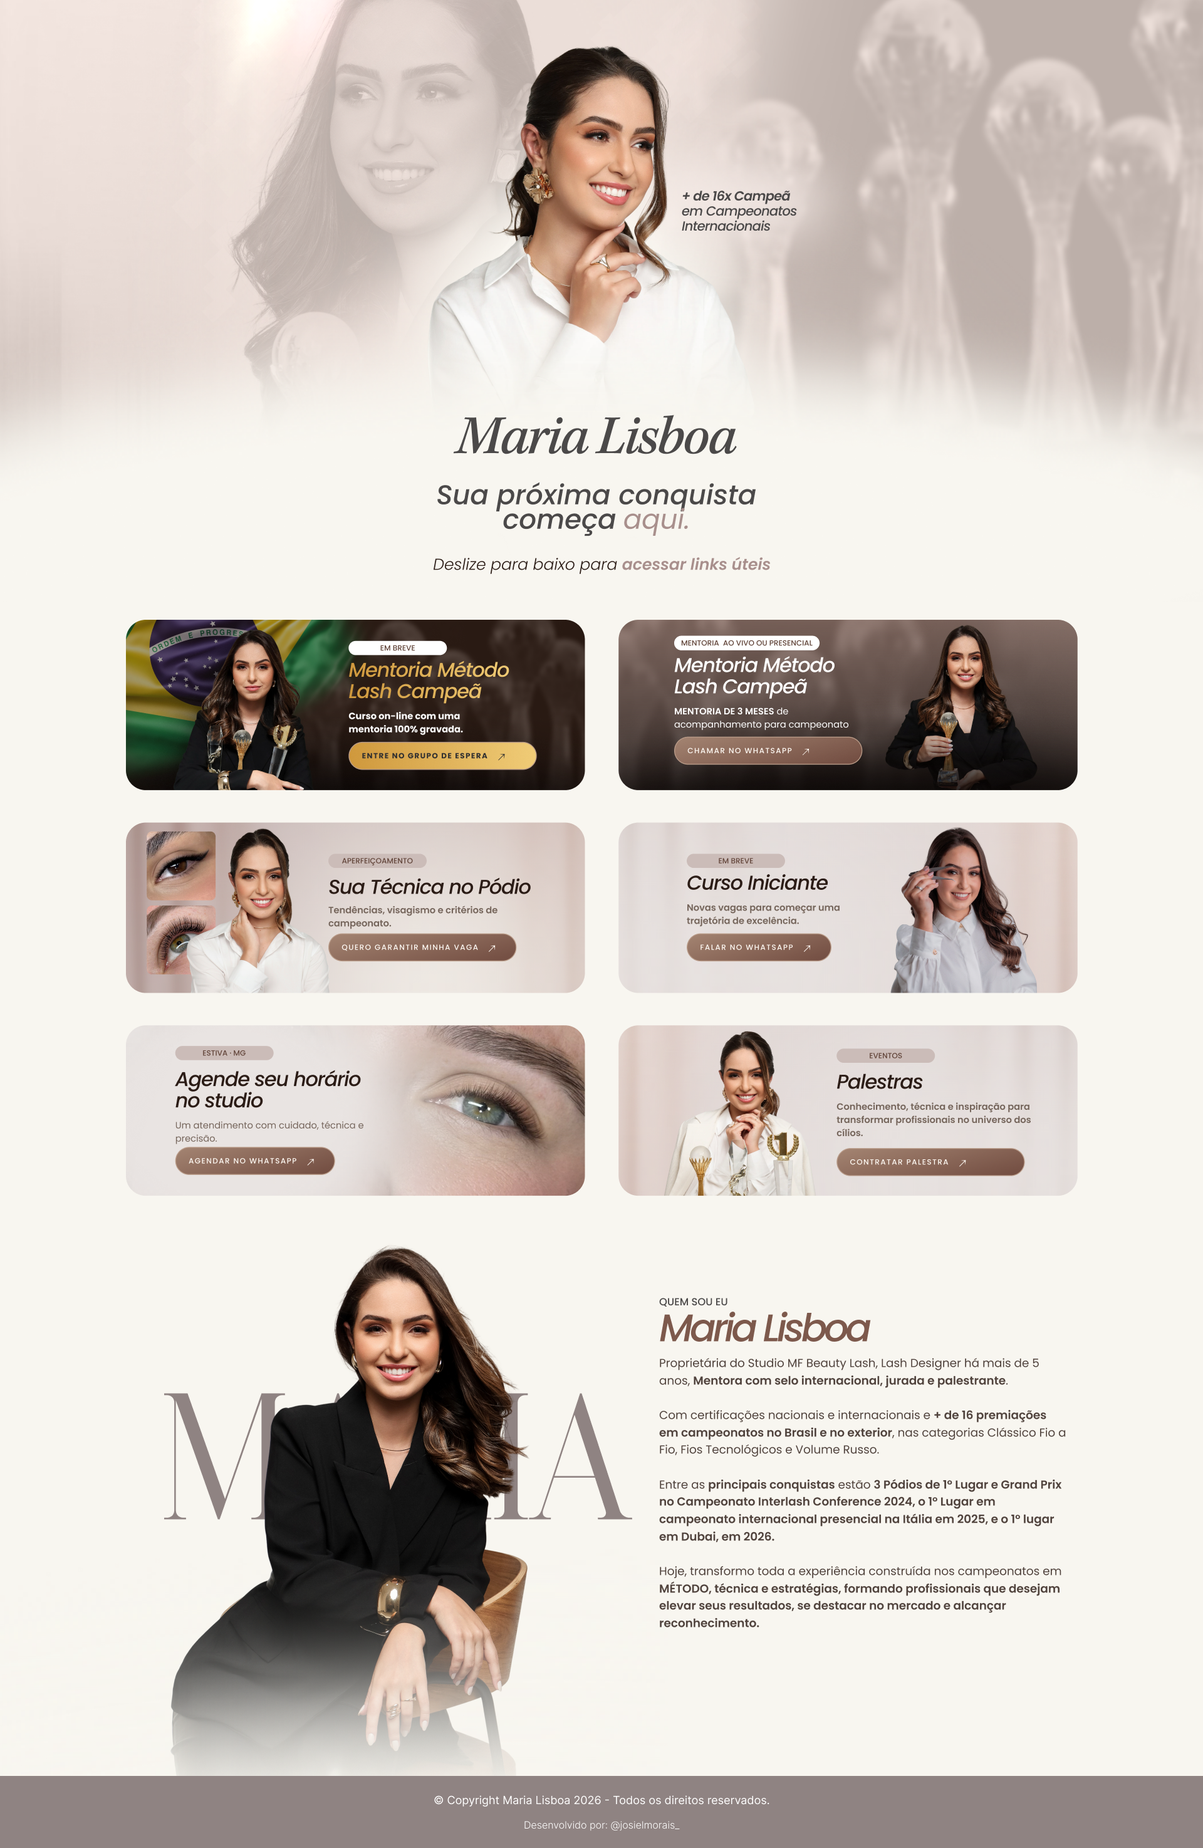
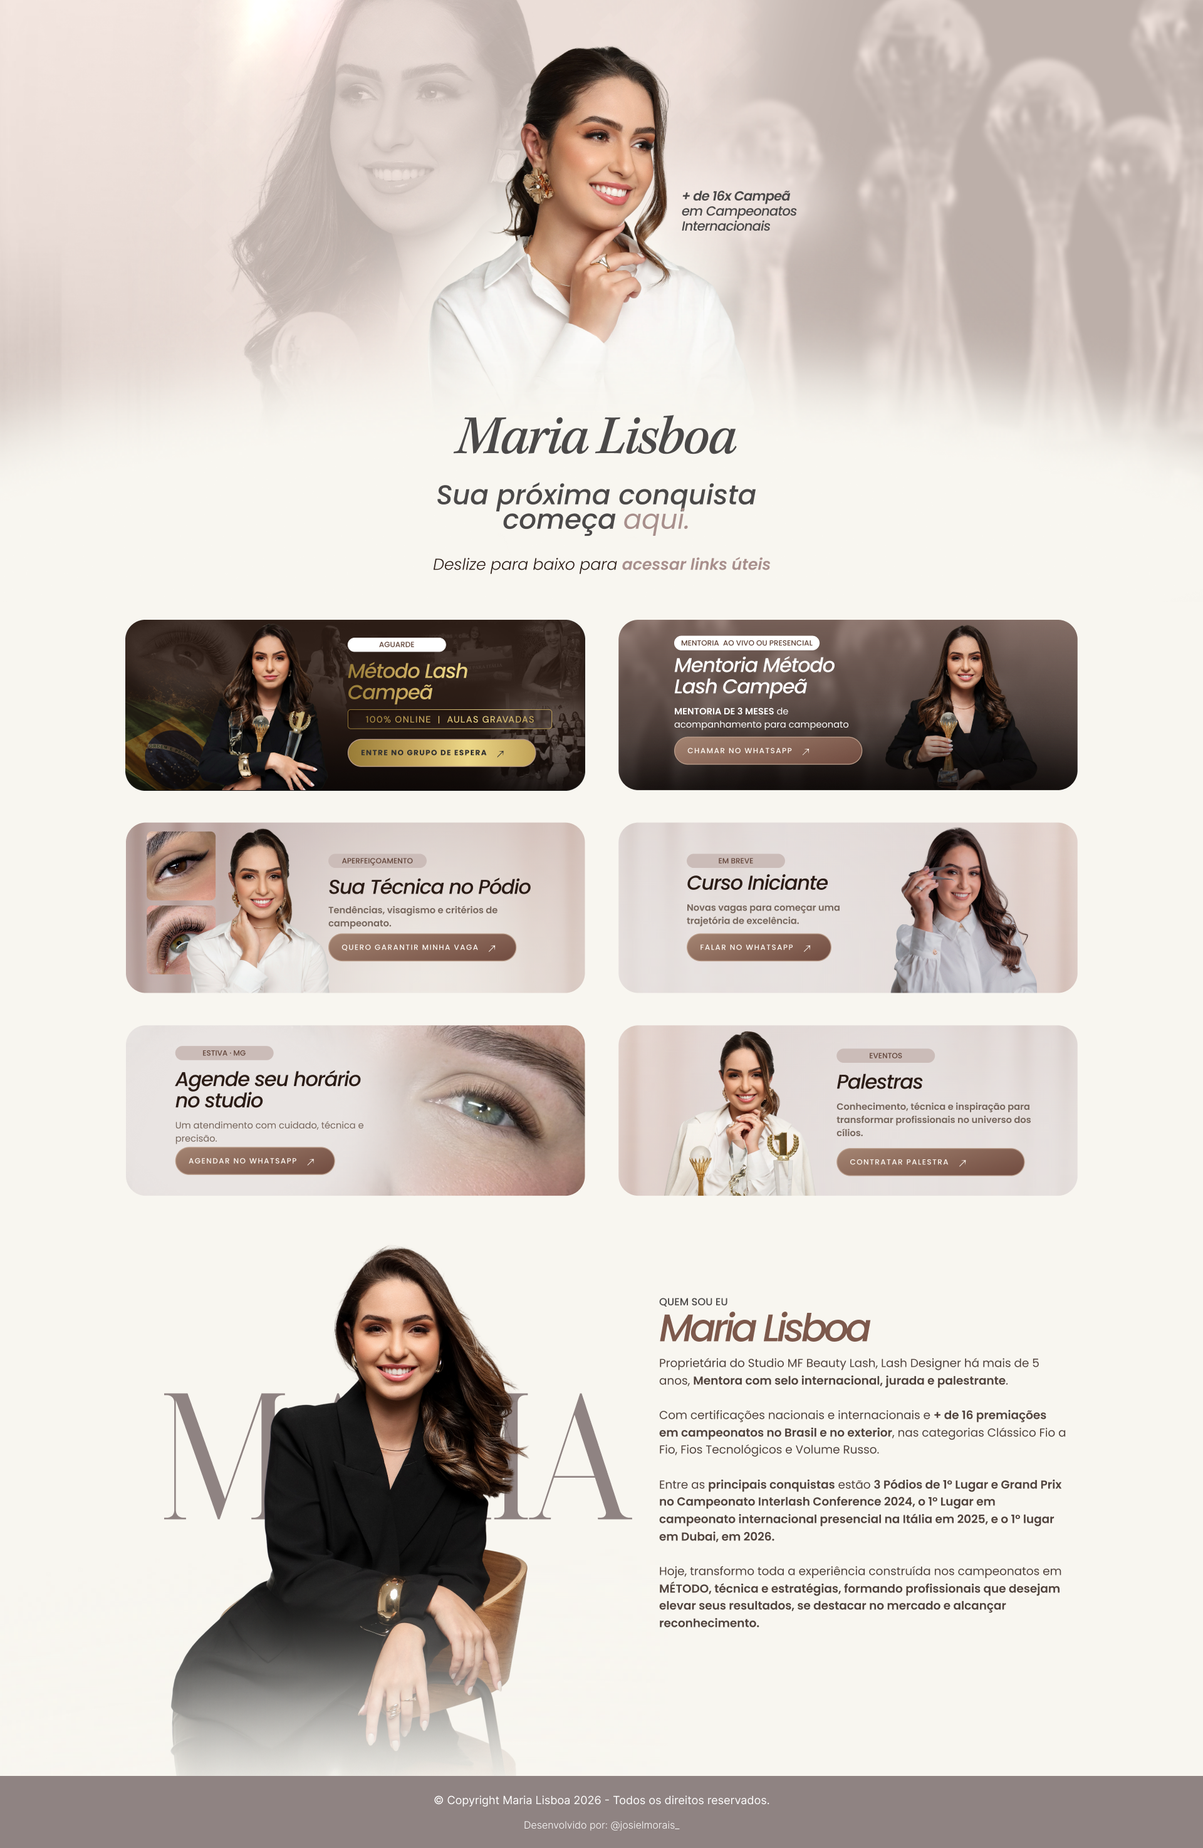
fix: atualizar botão MLC e rodapé da página de links

Changed region(s): [[0.0938, 0.312, 0.5, 0.4368]]

diff --git a/public/link-bio/index.html b/public/link-bio/index.html
@@ -7,7 +7,8 @@
   <meta name="theme-color" content="#f8f6f0" />
   <meta name="description" content="Maria Lisboa, Lash Designer, mentora, jurada e palestrante." />
   <title>Maria Lisboa | Lash Designer & Mentora</title>
-  <style>:root{--cream:#f8f6f0;--scale:1}
+  <style>@import url('https://fonts.googleapis.com/css2?family=Inter:wght@300;400&display=swap');
+:root{--cream:#f8f6f0;--scale:1}
 *{box-sizing:border-box}
 html,body{margin:0;background:var(--cream)}
 html{scroll-behavior:smooth}
@@ -16,6 +17,10 @@ body{min-width:320px;overflow-x:hidden;-webkit-font-smoothing:antialiased}
 .site{position:absolute;inset:0 auto auto 0;overflow:hidden;background:var(--cream);transform:scale(var(--scale));transform-origin:top left}
 .site-mobile{display:block;width:800px;height:3791px}
 .site-desktop{display:none;width:1920px;height:2949px}
+.desktop-footer{position:absolute;left:0;top:2834px;width:1920px;height:115px;background:#8f8382;color:#fff;font-family:'Inter',Arial,sans-serif}
+.desktop-footer p{position:absolute;margin:0;line-height:normal;white-space:nowrap}
+.desktop-footer-copyright{left:calc(50% - 268px);top:27px;font-size:18px;font-weight:400}
+.desktop-footer-developer{left:calc(50% + .5px);top:69px;transform:translateX(-50%);font-size:16px;font-weight:300}
 .slice{position:absolute;left:0;top:var(--y);width:100%;height:var(--h);overflow:hidden;background:var(--cream)}
 .slice-content{position:absolute;inset:0;overflow:hidden}
 .slice img{position:absolute;left:0;top:calc(-1 * var(--y));display:block;width:100%;height:auto;max-width:none;pointer-events:none;user-select:none}
@@ -30,8 +35,8 @@ body{min-width:320px;overflow-x:hidden;-webkit-font-smoothing:antialiased}
 .hotspot:focus-visible{outline:4px solid rgba(117,80,68,.55);outline-offset:4px}
 .hotspot:active{transition-duration:.09s}
 .card-effect{position:absolute;z-index:19;left:var(--x);top:var(--y);width:var(--w);height:var(--h);overflow:hidden;border-radius:30px;pointer-events:none;transform-origin:center;isolation:isolate}
-.site-mobile .card-effect.card-pop{background:url('./assets/figma_mobile_exact.webp') calc(-1 * var(--x)) calc(-1 * var(--y))/800px 3791px no-repeat}
-.site-desktop .card-effect.card-pop{background:url('./assets/figma_desktop_exact.webp') calc(-1 * var(--x)) calc(-1 * var(--y))/1920px 2949px no-repeat}
+.site-mobile .card-effect.card-pop{background:url('./assets/figma_mobile_exact.webp?v=rounded30') calc(-1 * var(--x)) calc(-1 * var(--y))/800px 3791px no-repeat}
+.site-desktop .card-effect.card-pop{background:url('./assets/figma_desktop_exact.webp?v=rounded30') calc(-1 * var(--x)) calc(-1 * var(--y))/1920px 2949px no-repeat}
 .card-effect.card-pop{z-index:21;animation:card-click-pop .42s cubic-bezier(.2,.8,.25,1) both;will-change:transform,filter}
 .hotspot.button-visible::before{animation:button-pulse .7s .2s ease-out 1}
 .hotspot.button-visible:hover::before,.hotspot.button-visible:focus-visible::before{animation:button-shine .72s ease-out both}
@@ -54,15 +59,15 @@ body{min-width:320px;overflow-x:hidden;-webkit-font-smoothing:antialiased}
 <body>
   <div class="stage-shell" id="stage-shell">
     <main class="site site-mobile" aria-label="Maria Lisboa">
-      <section class="slice reveal" style="--y:0px;--h:783px"><div class="slice-content"><img src="./assets/figma_mobile_exact.webp" alt="" /></div></section>
-      <section class="slice reveal reveal-left" style="--y:783px;--h:295px"><div class="slice-content"><img src="./assets/figma_mobile_exact.webp" alt="" /></div></section>
-      <section class="slice reveal reveal-right" style="--y:1078px;--h:276px"><div class="slice-content"><img src="./assets/figma_mobile_exact.webp" alt="" /></div></section>
-      <section class="slice reveal reveal-left" style="--y:1354px;--h:276px"><div class="slice-content"><img src="./assets/figma_mobile_exact.webp" alt="" /></div></section>
-      <section class="slice reveal reveal-right" style="--y:1630px;--h:276px"><div class="slice-content"><img src="./assets/figma_mobile_exact.webp" alt="" /></div></section>
-      <section class="slice reveal reveal-left" style="--y:1906px;--h:276px"><div class="slice-content"><img src="./assets/figma_mobile_exact.webp" alt="" /></div></section>
-      <section class="slice reveal reveal-right" style="--y:2182px;--h:284px"><div class="slice-content"><img src="./assets/figma_mobile_exact.webp" alt="" /></div></section>
-      <section class="slice reveal" style="--y:2466px;--h:1200px"><div class="slice-content"><img src="./assets/figma_mobile_exact.webp" alt="" /></div></section>
-      <section class="slice" style="--y:3666px;--h:125px"><div class="slice-content"><img src="./assets/figma_mobile_exact.webp" alt="" /></div></section>
+      <section class="slice reveal" style="--y:0px;--h:783px"><div class="slice-content"><img src="./assets/figma_mobile_exact.webp?v=rounded30" alt="" /></div></section>
+      <section class="slice reveal reveal-left" style="--y:783px;--h:295px"><div class="slice-content"><img src="./assets/figma_mobile_exact.webp?v=rounded30" alt="" /></div></section>
+      <section class="slice reveal reveal-right" style="--y:1078px;--h:276px"><div class="slice-content"><img src="./assets/figma_mobile_exact.webp?v=rounded30" alt="" /></div></section>
+      <section class="slice reveal reveal-left" style="--y:1354px;--h:276px"><div class="slice-content"><img src="./assets/figma_mobile_exact.webp?v=rounded30" alt="" /></div></section>
+      <section class="slice reveal reveal-right" style="--y:1630px;--h:276px"><div class="slice-content"><img src="./assets/figma_mobile_exact.webp?v=rounded30" alt="" /></div></section>
+      <section class="slice reveal reveal-left" style="--y:1906px;--h:276px"><div class="slice-content"><img src="./assets/figma_mobile_exact.webp?v=rounded30" alt="" /></div></section>
+      <section class="slice reveal reveal-right" style="--y:2182px;--h:284px"><div class="slice-content"><img src="./assets/figma_mobile_exact.webp?v=rounded30" alt="" /></div></section>
+      <section class="slice reveal" style="--y:2466px;--h:1200px"><div class="slice-content"><img src="./assets/figma_mobile_exact.webp?v=rounded30" alt="" /></div></section>
+      <section class="slice" style="--y:3666px;--h:125px"><div class="slice-content"><img src="./assets/figma_mobile_exact.webp?v=rounded30" alt="" /></div></section>
 
       <div class="card-effect" style="--x:53px;--y:812px;--w:695px;--h:258px" data-card="mentoria-online"></div>
       <div class="card-effect" style="--x:53px;--y:1092px;--w:695px;--h:257px" data-card="mentoria-ao-vivo"></div>
@@ -71,7 +76,7 @@ body{min-width:320px;overflow-x:hidden;-webkit-font-smoothing:antialiased}
       <div class="card-effect" style="--x:53px;--y:1650px;--w:695px;--h:258px" data-card="curso-iniciante"></div>
       <div class="card-effect" style="--x:53px;--y:1930px;--w:695px;--h:257px" data-card="palestras"></div>
       <div class="card-effect" style="--x:53px;--y:2210px;--w:695px;--h:256px" data-card="studio"></div>
-      <a class="hotspot button-gold" style="--x:371px;--y:992px;--w:285px;--h:41px" data-link="mentoriaOnline" data-card="mentoria-online" aria-label="Mentoria Método Lash Campeã — curso on-line"></a>
+      <a class="hotspot button-gold" style="--x:389px;--y:992px;--w:285px;--h:41px" data-link="mentoriaOnline" data-card="mentoria-online" aria-label="Mentoria Método Lash Campeã — curso on-line"></a>
       <a class="hotspot" style="--x:118px;--y:1264px;--w:285px;--h:41px" data-link="mentoriaAoVivo" data-card="mentoria-ao-vivo" aria-label="Mentoria Método Lash Campeã — mentoria ao vivo ou presencial"></a>
       <a class="hotspot" style="--x:340px;--y:1532px;--w:285px;--h:41px" data-link="tecnicaPodio" data-card="tecnica-podio" aria-label="Sua Técnica no Pódio"></a>
       <a class="hotspot" style="--x:138px;--y:1808px;--w:219px;--h:41px" data-link="cursoIniciante" data-card="curso-iniciante" aria-label="Curso Iniciante"></a>
@@ -81,12 +86,15 @@ body{min-width:320px;overflow-x:hidden;-webkit-font-smoothing:antialiased}
     </main>
 
     <main class="site site-desktop" aria-label="Maria Lisboa">
-      <section class="slice reveal" style="--y:0px;--h:989px"><div class="slice-content"><img src="./assets/figma_desktop_exact.webp" alt="" /></div></section>
-      <section class="slice reveal reveal-left" style="--y:989px;--h:298px"><div class="slice-content"><img src="./assets/figma_desktop_exact.webp" alt="" /></div></section>
-      <section class="slice reveal reveal-right" style="--y:1287px;--h:323px"><div class="slice-content"><img src="./assets/figma_desktop_exact.webp" alt="" /></div></section>
-      <section class="slice reveal reveal-left" style="--y:1610px;--h:346px"><div class="slice-content"><img src="./assets/figma_desktop_exact.webp" alt="" /></div></section>
-      <section class="slice reveal" style="--y:1956px;--h:878px"><div class="slice-content"><img src="./assets/figma_desktop_exact.webp" alt="" /></div></section>
-      <section class="slice" style="--y:2834px;--h:115px"><div class="slice-content"><img src="./assets/figma_desktop_exact.webp" alt="" /></div></section>
+      <section class="slice reveal" style="--y:0px;--h:989px"><div class="slice-content"><img src="./assets/figma_desktop_exact.webp?v=rounded30" alt="" /></div></section>
+      <section class="slice reveal reveal-left" style="--y:989px;--h:298px"><div class="slice-content"><img src="./assets/figma_desktop_exact.webp?v=rounded30" alt="" /></div></section>
+      <section class="slice reveal reveal-right" style="--y:1287px;--h:323px"><div class="slice-content"><img src="./assets/figma_desktop_exact.webp?v=rounded30" alt="" /></div></section>
+      <section class="slice reveal reveal-left" style="--y:1610px;--h:346px"><div class="slice-content"><img src="./assets/figma_desktop_exact.webp?v=rounded30" alt="" /></div></section>
+      <section class="slice reveal" style="--y:1956px;--h:878px"><div class="slice-content"><img src="./assets/figma_desktop_exact.webp?v=rounded30" alt="" /></div></section>
+      <footer class="desktop-footer">
+        <p class="desktop-footer-copyright">© Copyright Maria Lisboa 2026 - Todos os direitos reservados.</p>
+        <p class="desktop-footer-developer">Desenvolvido por: @josielmorais_</p>
+      </footer>
 
       <div class="card-effect" style="--x:200px;--y:989px;--w:734px;--h:273px" data-card="mentoria-online"></div>
       <div class="card-effect" style="--x:987px;--y:989px;--w:733px;--h:273px" data-card="mentoria-ao-vivo"></div>

diff --git a/link-bio/src/exact.html b/link-bio/src/exact.html
@@ -12,15 +12,15 @@
 <body>
   <div class="stage-shell" id="stage-shell">
     <main class="site site-mobile" aria-label="Maria Lisboa">
-      <section class="slice reveal" style="--y:0px;--h:783px"><div class="slice-content"><img src="./assets/figma_mobile_exact.webp" alt="" /></div></section>
-      <section class="slice reveal reveal-left" style="--y:783px;--h:295px"><div class="slice-content"><img src="./assets/figma_mobile_exact.webp" alt="" /></div></section>
-      <section class="slice reveal reveal-right" style="--y:1078px;--h:276px"><div class="slice-content"><img src="./assets/figma_mobile_exact.webp" alt="" /></div></section>
-      <section class="slice reveal reveal-left" style="--y:1354px;--h:276px"><div class="slice-content"><img src="./assets/figma_mobile_exact.webp" alt="" /></div></section>
-      <section class="slice reveal reveal-right" style="--y:1630px;--h:276px"><div class="slice-content"><img src="./assets/figma_mobile_exact.webp" alt="" /></div></section>
-      <section class="slice reveal reveal-left" style="--y:1906px;--h:276px"><div class="slice-content"><img src="./assets/figma_mobile_exact.webp" alt="" /></div></section>
-      <section class="slice reveal reveal-right" style="--y:2182px;--h:284px"><div class="slice-content"><img src="./assets/figma_mobile_exact.webp" alt="" /></div></section>
-      <section class="slice reveal" style="--y:2466px;--h:1200px"><div class="slice-content"><img src="./assets/figma_mobile_exact.webp" alt="" /></div></section>
-      <section class="slice" style="--y:3666px;--h:125px"><div class="slice-content"><img src="./assets/figma_mobile_exact.webp" alt="" /></div></section>
+      <section class="slice reveal" style="--y:0px;--h:783px"><div class="slice-content"><img src="./assets/figma_mobile_exact.webp?v=rounded30" alt="" /></div></section>
+      <section class="slice reveal reveal-left" style="--y:783px;--h:295px"><div class="slice-content"><img src="./assets/figma_mobile_exact.webp?v=rounded30" alt="" /></div></section>
+      <section class="slice reveal reveal-right" style="--y:1078px;--h:276px"><div class="slice-content"><img src="./assets/figma_mobile_exact.webp?v=rounded30" alt="" /></div></section>
+      <section class="slice reveal reveal-left" style="--y:1354px;--h:276px"><div class="slice-content"><img src="./assets/figma_mobile_exact.webp?v=rounded30" alt="" /></div></section>
+      <section class="slice reveal reveal-right" style="--y:1630px;--h:276px"><div class="slice-content"><img src="./assets/figma_mobile_exact.webp?v=rounded30" alt="" /></div></section>
+      <section class="slice reveal reveal-left" style="--y:1906px;--h:276px"><div class="slice-content"><img src="./assets/figma_mobile_exact.webp?v=rounded30" alt="" /></div></section>
+      <section class="slice reveal reveal-right" style="--y:2182px;--h:284px"><div class="slice-content"><img src="./assets/figma_mobile_exact.webp?v=rounded30" alt="" /></div></section>
+      <section class="slice reveal" style="--y:2466px;--h:1200px"><div class="slice-content"><img src="./assets/figma_mobile_exact.webp?v=rounded30" alt="" /></div></section>
+      <section class="slice" style="--y:3666px;--h:125px"><div class="slice-content"><img src="./assets/figma_mobile_exact.webp?v=rounded30" alt="" /></div></section>
 
       <div class="card-effect" style="--x:53px;--y:812px;--w:695px;--h:258px" data-card="mentoria-online"></div>
       <div class="card-effect" style="--x:53px;--y:1092px;--w:695px;--h:257px" data-card="mentoria-ao-vivo"></div>
@@ -29,7 +29,7 @@
       <div class="card-effect" style="--x:53px;--y:1650px;--w:695px;--h:258px" data-card="curso-iniciante"></div>
       <div class="card-effect" style="--x:53px;--y:1930px;--w:695px;--h:257px" data-card="palestras"></div>
       <div class="card-effect" style="--x:53px;--y:2210px;--w:695px;--h:256px" data-card="studio"></div>
-      <a class="hotspot button-gold" style="--x:371px;--y:992px;--w:285px;--h:41px" data-link="mentoriaOnline" data-card="mentoria-online" aria-label="Mentoria Método Lash Campeã — curso on-line"></a>
+      <a class="hotspot button-gold" style="--x:389px;--y:992px;--w:285px;--h:41px" data-link="mentoriaOnline" data-card="mentoria-online" aria-label="Mentoria Método Lash Campeã — curso on-line"></a>
       <a class="hotspot" style="--x:118px;--y:1264px;--w:285px;--h:41px" data-link="mentoriaAoVivo" data-card="mentoria-ao-vivo" aria-label="Mentoria Método Lash Campeã — mentoria ao vivo ou presencial"></a>
       <a class="hotspot" style="--x:340px;--y:1532px;--w:285px;--h:41px" data-link="tecnicaPodio" data-card="tecnica-podio" aria-label="Sua Técnica no Pódio"></a>
       <a class="hotspot" style="--x:138px;--y:1808px;--w:219px;--h:41px" data-link="cursoIniciante" data-card="curso-iniciante" aria-label="Curso Iniciante"></a>
@@ -39,12 +39,15 @@
     </main>
 
     <main class="site site-desktop" aria-label="Maria Lisboa">
-      <section class="slice reveal" style="--y:0px;--h:989px"><div class="slice-content"><img src="./assets/figma_desktop_exact.webp" alt="" /></div></section>
-      <section class="slice reveal reveal-left" style="--y:989px;--h:298px"><div class="slice-content"><img src="./assets/figma_desktop_exact.webp" alt="" /></div></section>
-      <section class="slice reveal reveal-right" style="--y:1287px;--h:323px"><div class="slice-content"><img src="./assets/figma_desktop_exact.webp" alt="" /></div></section>
-      <section class="slice reveal reveal-left" style="--y:1610px;--h:346px"><div class="slice-content"><img src="./assets/figma_desktop_exact.webp" alt="" /></div></section>
-      <section class="slice reveal" style="--y:1956px;--h:878px"><div class="slice-content"><img src="./assets/figma_desktop_exact.webp" alt="" /></div></section>
-      <section class="slice" style="--y:2834px;--h:115px"><div class="slice-content"><img src="./assets/figma_desktop_exact.webp" alt="" /></div></section>
+      <section class="slice reveal" style="--y:0px;--h:989px"><div class="slice-content"><img src="./assets/figma_desktop_exact.webp?v=rounded30" alt="" /></div></section>
+      <section class="slice reveal reveal-left" style="--y:989px;--h:298px"><div class="slice-content"><img src="./assets/figma_desktop_exact.webp?v=rounded30" alt="" /></div></section>
+      <section class="slice reveal reveal-right" style="--y:1287px;--h:323px"><div class="slice-content"><img src="./assets/figma_desktop_exact.webp?v=rounded30" alt="" /></div></section>
+      <section class="slice reveal reveal-left" style="--y:1610px;--h:346px"><div class="slice-content"><img src="./assets/figma_desktop_exact.webp?v=rounded30" alt="" /></div></section>
+      <section class="slice reveal" style="--y:1956px;--h:878px"><div class="slice-content"><img src="./assets/figma_desktop_exact.webp?v=rounded30" alt="" /></div></section>
+      <footer class="desktop-footer">
+        <p class="desktop-footer-copyright">© Copyright Maria Lisboa 2026 - Todos os direitos reservados.</p>
+        <p class="desktop-footer-developer">Desenvolvido por: @josielmorais_</p>
+      </footer>
 
       <div class="card-effect" style="--x:200px;--y:989px;--w:734px;--h:273px" data-card="mentoria-online"></div>
       <div class="card-effect" style="--x:987px;--y:989px;--w:733px;--h:273px" data-card="mentoria-ao-vivo"></div>

diff --git a/link-bio/src/exact.css b/link-bio/src/exact.css
@@ -1,3 +1,4 @@
+@import url('https://fonts.googleapis.com/css2?family=Inter:wght@300;400&display=swap');
 :root{--cream:#f8f6f0;--scale:1}
 *{box-sizing:border-box}
 html,body{margin:0;background:var(--cream)}
@@ -7,6 +8,10 @@ body{min-width:320px;overflow-x:hidden;-webkit-font-smoothing:antialiased}
 .site{position:absolute;inset:0 auto auto 0;overflow:hidden;background:var(--cream);transform:scale(var(--scale));transform-origin:top left}
 .site-mobile{display:block;width:800px;height:3791px}
 .site-desktop{display:none;width:1920px;height:2949px}
+.desktop-footer{position:absolute;left:0;top:2834px;width:1920px;height:115px;background:#8f8382;color:#fff;font-family:'Inter',Arial,sans-serif}
+.desktop-footer p{position:absolute;margin:0;line-height:normal;white-space:nowrap}
+.desktop-footer-copyright{left:calc(50% - 268px);top:27px;font-size:18px;font-weight:400}
+.desktop-footer-developer{left:calc(50% + .5px);top:69px;transform:translateX(-50%);font-size:16px;font-weight:300}
 .slice{position:absolute;left:0;top:var(--y);width:100%;height:var(--h);overflow:hidden;background:var(--cream)}
 .slice-content{position:absolute;inset:0;overflow:hidden}
 .slice img{position:absolute;left:0;top:calc(-1 * var(--y));display:block;width:100%;height:auto;max-width:none;pointer-events:none;user-select:none}
@@ -21,8 +26,8 @@ body{min-width:320px;overflow-x:hidden;-webkit-font-smoothing:antialiased}
 .hotspot:focus-visible{outline:4px solid rgba(117,80,68,.55);outline-offset:4px}
 .hotspot:active{transition-duration:.09s}
 .card-effect{position:absolute;z-index:19;left:var(--x);top:var(--y);width:var(--w);height:var(--h);overflow:hidden;border-radius:30px;pointer-events:none;transform-origin:center;isolation:isolate}
-.site-mobile .card-effect.card-pop{background:url('./assets/figma_mobile_exact.webp') calc(-1 * var(--x)) calc(-1 * var(--y))/800px 3791px no-repeat}
-.site-desktop .card-effect.card-pop{background:url('./assets/figma_desktop_exact.webp') calc(-1 * var(--x)) calc(-1 * var(--y))/1920px 2949px no-repeat}
+.site-mobile .card-effect.card-pop{background:url('./assets/figma_mobile_exact.webp?v=rounded30') calc(-1 * var(--x)) calc(-1 * var(--y))/800px 3791px no-repeat}
+.site-desktop .card-effect.card-pop{background:url('./assets/figma_desktop_exact.webp?v=rounded30') calc(-1 * var(--x)) calc(-1 * var(--y))/1920px 2949px no-repeat}
 .card-effect.card-pop{z-index:21;animation:card-click-pop .42s cubic-bezier(.2,.8,.25,1) both;will-change:transform,filter}
 .hotspot.button-visible::before{animation:button-pulse .7s .2s ease-out 1}
 .hotspot.button-visible:hover::before,.hotspot.button-visible:focus-visible::before{animation:button-shine .72s ease-out both}
